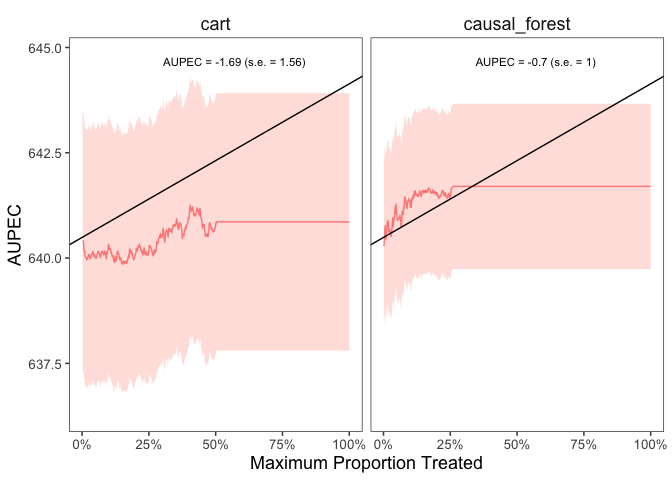
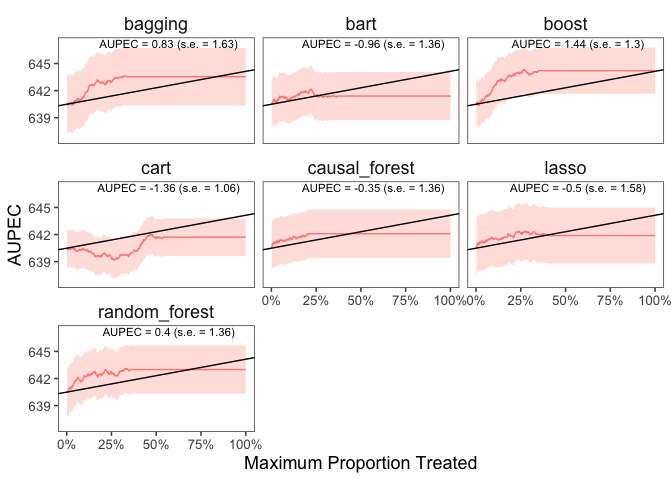
update readme

diff --git a/README.md b/README.md
@@ -47,10 +47,8 @@ library(evalITR)
 load("data/star.rda")
 
 # specifying outcomes
-# outcomes <- c("g3tlangss",
-#                 "g3treadss","g3tmathss")
-outcomes <- c("g3tlangss")
-
+outcomes <- c("g3tlangss",
+                "g3treadss","g3tmathss")
 
 # specifying covariates
 covariates <-  star %>% 
@@ -64,63 +62,107 @@ fit <- run_itr(outcome = outcomes,
                data = star,
                algorithms = c(
                   "causal_forest", 
-                  # "bart",
-                  # "lasso",
-                  # "boost", 
-                  # "random_forest",
-                  # "bagging",
+                  "bart",
+                  "lasso",
+                  "boost", 
+                  "random_forest",
+                  "bagging",
                   "cart"),
                plim = 0.2,
                n_folds = 3)
+
 ```
+
+The`summary()` function display the following summary statistics: (1)
+population average prescriptive effect `PAPE`; (2) population average
+prescriptive effect with a budget constraint `PAPEp`; (3) population
+average prescriptive effect difference with a budget constraint `PAPDp`;
+(4) and area under the prescriptive effect curve `AUPEC`. For more
+information about these evaluation metrics, please refer to [this
+paper](https://arxiv.org/abs/1905.05389).
 
 ``` r
 # get PAPE estimates
 summary(fit,1, type = "PAPE")
 #> ── Estimates ───────────────────────────────────────────────────────────────────
-#>    pape   sd           alg
-#> 1  0.82 0.88 causal_forest
-#> 2 -1.46 1.54          cart
+#>     pape   sd           alg
+#> 1  1.062 0.92 causal_forest
+#> 2 -0.146 0.96          bart
+#> 3  0.042 0.87         lasso
+#> 4  2.523 1.19         boost
+#> 5  1.283 1.31 random_forest
+#> 6  1.990 0.89       bagging
+#> 7 -0.716 1.15          cart
 
 # get PAPE estimates
 summary(fit, 1, type = "PAPEp")
 #> ── Estimates ───────────────────────────────────────────────────────────────────
 #>   papep   sd           alg
-#> 1   2.4 0.83 causal_forest
-#> 2  -1.1 0.76          cart
+#> 1  0.85 0.76 causal_forest
+#> 2  0.54 0.78          bart
+#> 3  0.63 0.66         lasso
+#> 4  2.39 0.75         boost
+#> 5  1.32 0.87 random_forest
+#> 6  1.60 0.84       bagging
+#> 7 -1.46 0.99          cart
 
 # get PAPDp estimates
 summary(fit, 1, type = "PAPDp")
 #> ── Estimates ───────────────────────────────────────────────────────────────────
-#>   papd  sd                  alg
-#> 1  3.5 1.2 causal_forest x cart
+#>      papd   sd                           alg
+#> 1   0.307 0.82          causal_forest x bart
+#> 2   0.217 1.01         causal_forest x lasso
+#> 3  -1.542 1.52         causal_forest x boost
+#> 4  -0.468 1.40 causal_forest x random_forest
+#> 5  -0.753 1.56       causal_forest x bagging
+#> 6   2.309 1.01          causal_forest x cart
+#> 7  -0.089 0.94                  bart x lasso
+#> 8  -1.848 0.85                  bart x boost
+#> 9  -0.774 0.90          bart x random_forest
+#> 10 -1.060 0.88                bart x bagging
+#> 11  2.003 1.04                   bart x cart
+#> 12 -1.759 1.08                 lasso x boost
+#> 13 -0.685 1.11         lasso x random_forest
+#> 14 -0.970 1.33               lasso x bagging
+#> 15  2.092 0.97                  lasso x cart
+#> 16  1.074 1.41         boost x random_forest
+#> 17  0.789 1.47               boost x bagging
+#> 18  3.851 1.00                  boost x cart
+#> 19 -0.285 1.27       random_forest x bagging
+#> 20  2.777 1.13          random_forest x cart
+#> 21  3.062 1.12                bagging x cart
 
 # get AUPEC estimates
 summary(fit, 1, type = "AUPEC")
 #> ── Estimates ───────────────────────────────────────────────────────────────────
 #>   aupec  sd     algorithm
-#> 1  -0.7 1.0 causal_forest
-#> 2  -1.7 1.6          cart
+#> 1 -0.35 1.4 causal_forest
+#> 2 -0.96 1.4          bart
+#> 3 -0.50 1.6         lasso
+#> 4  1.44 1.3         boost
+#> 5  0.40 1.4 random_forest
+#> 6  0.83 1.6       bagging
+#> 7 -1.36 1.1          cart
 ```
 
-We plot the estimated Area Under the Prescriptive Effect Curve (AUPEC)
-for the writing score across a range of budget constraints for different
+We plot the estimated Area Under the Prescriptive Effect Curve for the
+writing score across a range of budget constraints for different
 algorithms.
 
 ``` r
 # plot the AUPEC with different ML algorithms
-plot_aupec(fit = fit$qoi[1], 
-          outcome = outcomes[1],
-          treatment = "treatment",
-          data = star, 
-          algorithms = c(
-                  "causal_forest",
-                  # "bart",
-                  # "lasso",
-                  # "boost", 
-                  # "random_forest",
-                  # "bagging", 
-                  "cart"))
+plot(x = fit, 
+      outcome = outcomes[1],
+      treatment = "treatment",
+      data = star, 
+      algorithms = c(
+          "causal_forest",
+          "bart",
+          "lasso",
+          "boost", 
+          "random_forest",
+          "bagging", 
+          "cart"))
 ```
 
 ![](man/figures/README-plot-1.png)<!-- -->
